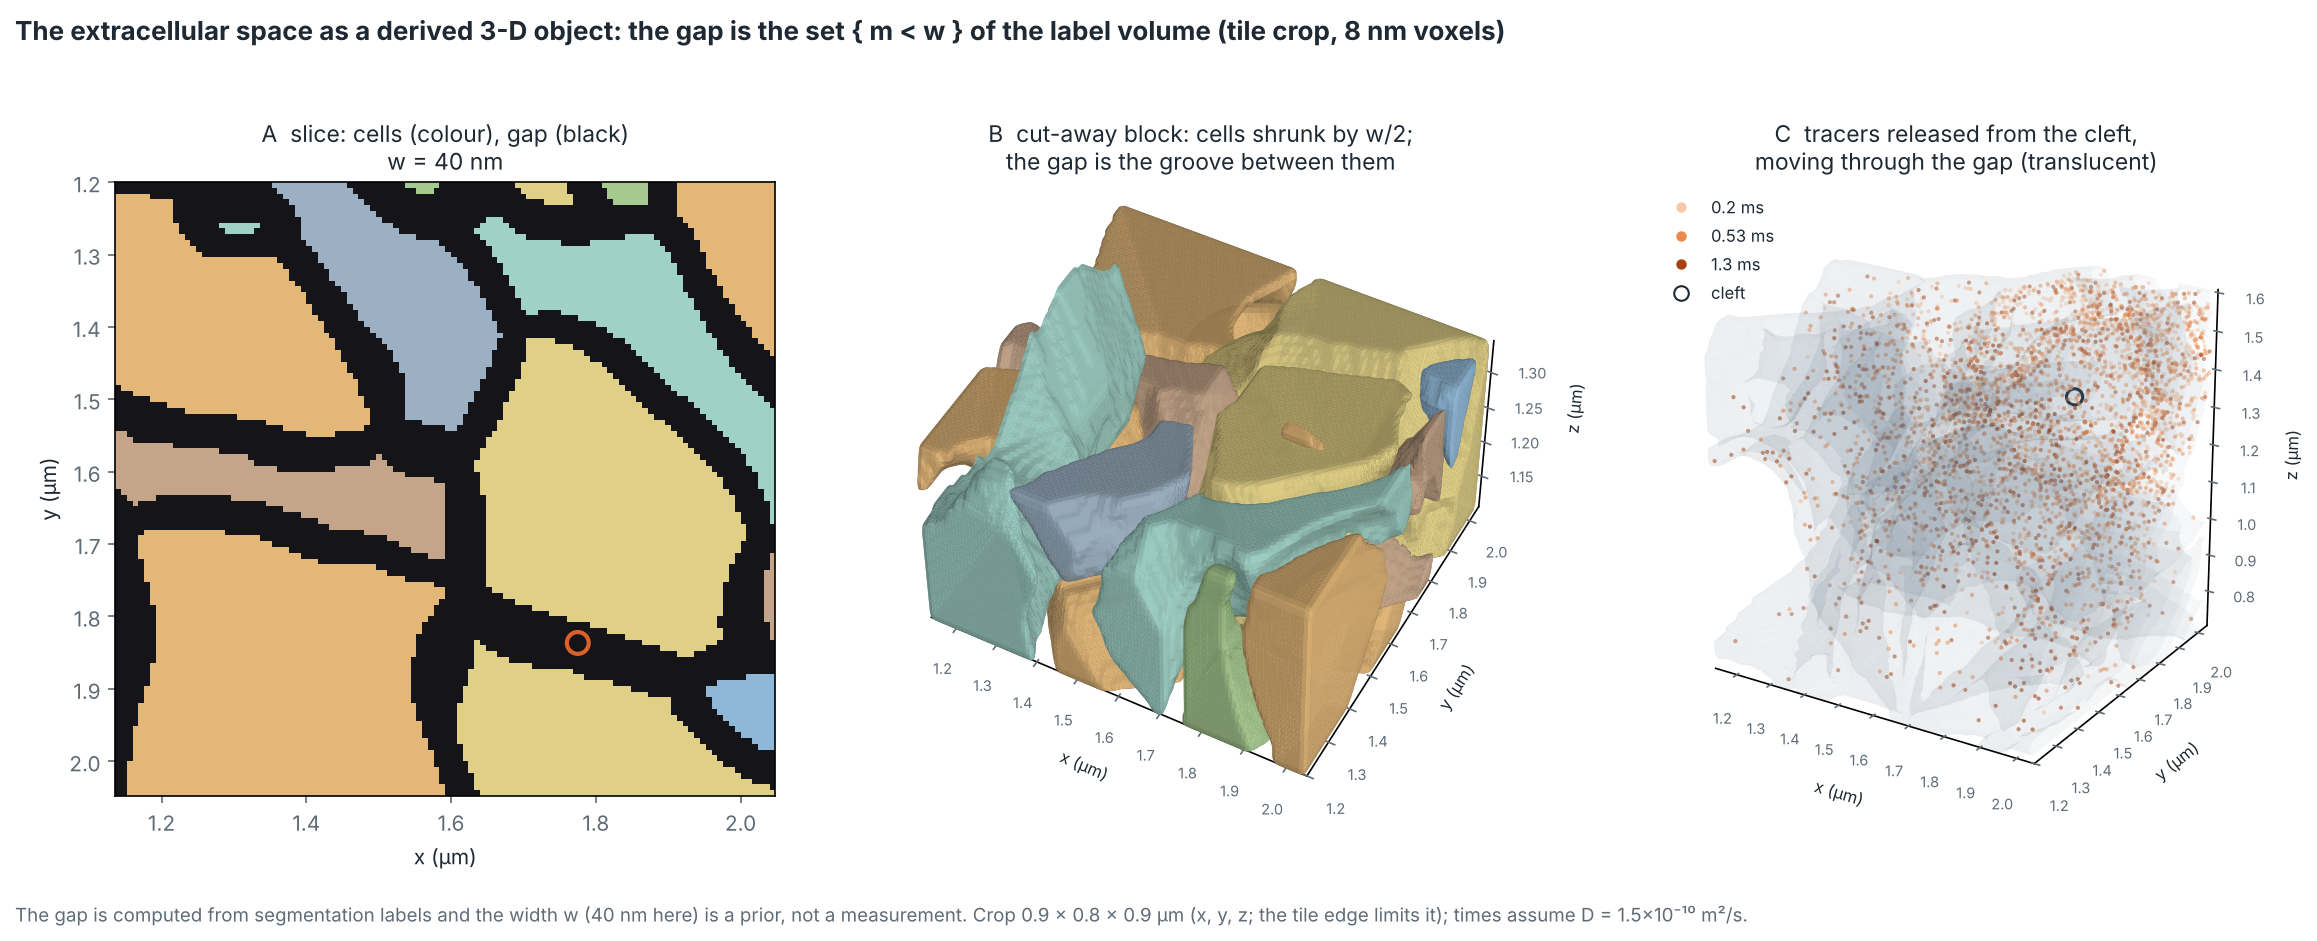
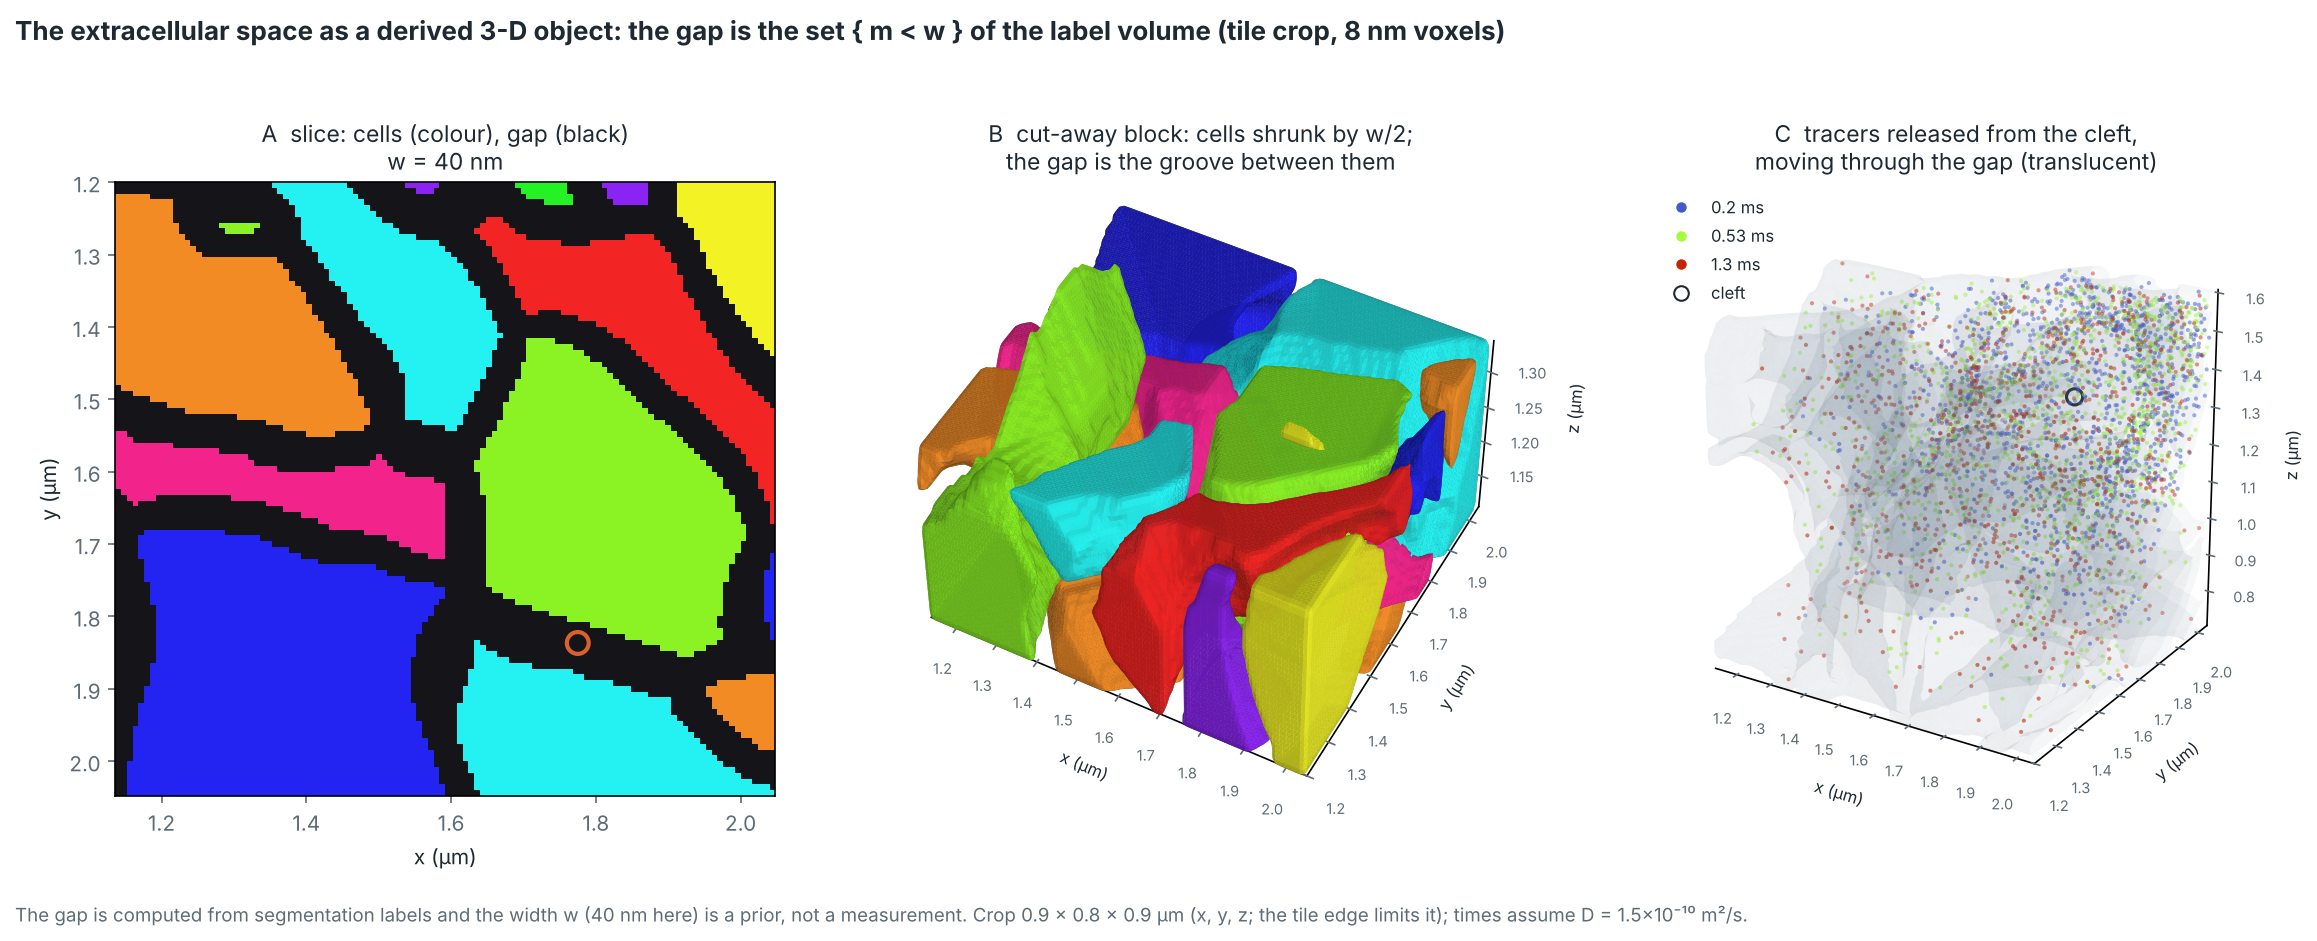
ECS figure: full-spectrum cell colours with touching cells given well-separated hues; spectrum tracer colours
Claude-Session: https://claude.ai/code/session_01QHM7TWEPVeYeANFngaV58p

Changed region(s): [[0.0311, 0.1849, 0.3418, 0.8629], [0.3729, 0.2157, 0.6526, 0.8321], [0.7458, 0.2774, 0.9633, 0.7396]]

diff --git a/examples/make_ecs_figure.py b/examples/make_ecs_figure.py
@@ -74,14 +74,37 @@ def setup3d(ax, title):
     ax.grid(False)
 
 
-PAL = np.array([to_rgb(h) for h in ["#8fb8d8", "#e3b778", "#a6c98f", "#d99aa5", "#b7a6d6", "#9fd1c7", "#e0cf86", "#c4a58a", "#9bb0c2", "#cdb4a3"]])
+import colorsys
 ink, sub = "#1f2933", "#5f6b76"
 plt.rcParams.update({"text.color": ink, "axes.labelcolor": ink, "xtick.color": sub, "ytick.color": sub})
 fig = plt.figure(figsize=(15.5, 6.2))
 
 
-def colour(q):                                   # one colour per cell, shared by panels A and B
-    return PAL[(int(q) * 2654435761 % 2**32) % len(PAL)]
+def _assign_hues(vol, nhue=12):
+    """Hue (0-1) per cell: greedy colouring of the contact graph over `nhue` evenly spaced hues, so cells that touch
+    get well separated points on the full spectrum (colour-vision-deficiency software can then remap hues)."""
+    nb = {}
+    for ax in range(3):
+        lo_ = vol[tuple(slice(None, -1) if k_ == ax else slice(None) for k_ in range(3))]
+        hi_ = vol[tuple(slice(1, None) if k_ == ax else slice(None) for k_ in range(3))]
+        sel = (lo_ != hi_) & (lo_ != 0) & (hi_ != 0)
+        for u, w_ in set(zip(lo_[sel].tolist(), hi_[sel].tolist())):
+            nb.setdefault(u, set()).add(w_); nb.setdefault(w_, set()).add(u)
+    hues = {}
+    order = sorted(np.unique(vol[vol != 0]).tolist(), key=lambda q: -len(nb.get(q, ())))
+    cand = (np.arange(nhue) * 5 % nhue) / nhue                                     # interleaved so early picks are far apart
+    for q in order:
+        used = [hues[n] for n in nb.get(q, ()) if n in hues]
+        dist = lambda h: min([min(abs(h - u), 1 - abs(h - u)) for u in used], default=1.0)
+        hues[q] = max(cand, key=lambda h: (round(dist(h), 6), -h))
+    return hues
+
+
+HUES = _assign_hues(vc)
+
+
+def colour(q):
+    return np.array(colorsys.hsv_to_rgb(HUES.get(int(q), 0.0), 0.85, 0.95))
 
 
 # A: slice
@@ -129,7 +152,7 @@ for pane in (ax.xaxis.pane, ax.yaxis.pane, ax.zaxis.pane):
     pane.set_alpha(0.0)
 # C: gap + tracers
 ax = fig.add_subplot(1, 3, 3, projection="3d"); draw_surface(ax, "#6f8aa3", 0.05)
-cols = ["#f7c9a8", "#ec8a4a", "#a8420f"]
+cols = [plt.cm.turbo(x)[:3] for x in (0.1, 0.5, 0.9)]            # full spectrum: early blue, middle green, late red
 for kk, cc in zip([3, 8, nrec], cols):
     p = r["pos"][kk]; ok = np.all((p >= off) & (p <= off + (hi - lo) * H), axis=1)
     ax.scatter(p[ok, 2] / 1e3, p[ok, 1] / 1e3, p[ok, 0] / 1e3, s=4, c=cc, alpha=0.85, linewidths=0, label=f"{ms(r['t'][kk]):.2g} ms")
